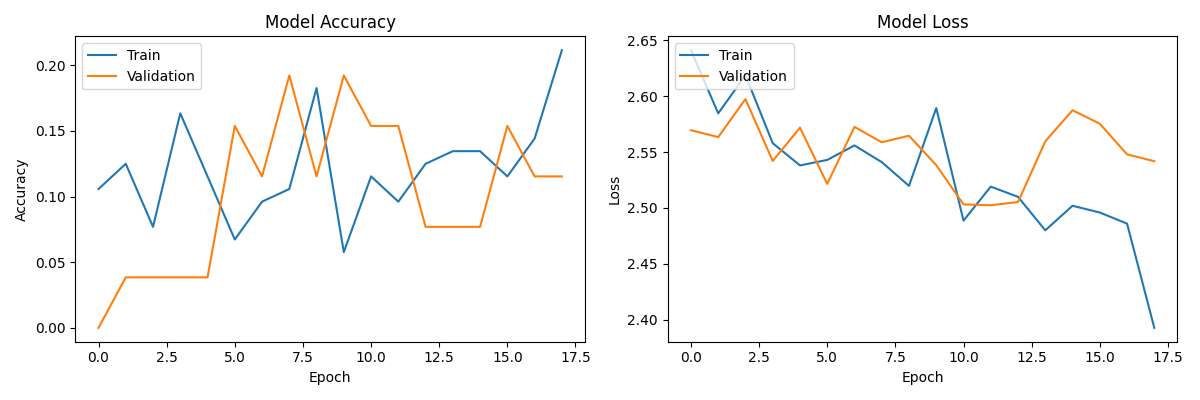
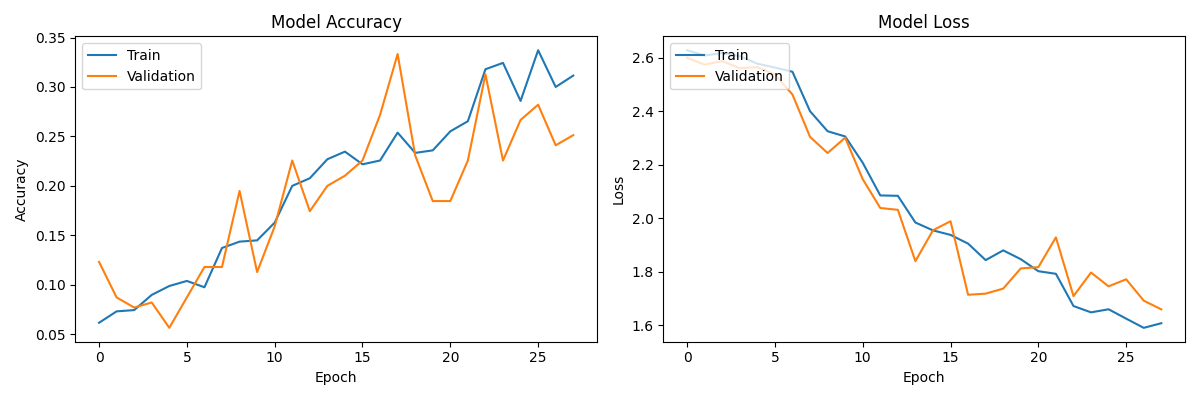
advance

diff --git a/src/script_dataset.py b/src/script_dataset.py
@@ -9,7 +9,7 @@ def create_directory(directory):
     if not os.path.exists(directory):
         os.makedirs(directory)
 
-def normalize_videos(input_folder, output_folder, target_size=(224, 224)):
+def normalize_videos(input_folder, output_folder, target_size=(320, 240)):
     """
     Normalize videos by resizing them to a target size while preserving orientation.
     

diff --git a/src/train_model.py b/src/train_model.py
@@ -147,7 +147,7 @@ def create_cnn_lstm_model(input_shape, num_classes, mobile_net=True):
     
     return model
 
-def train_and_evaluate(X, y, class_names, mobile_net=True, epochs=50, batch_size=32):
+def train_and_evaluate(X, y, class_names, mobile_net=True, epochs=150, batch_size=32):
     """
     Train and evaluate the model, save the best model weights.
     
